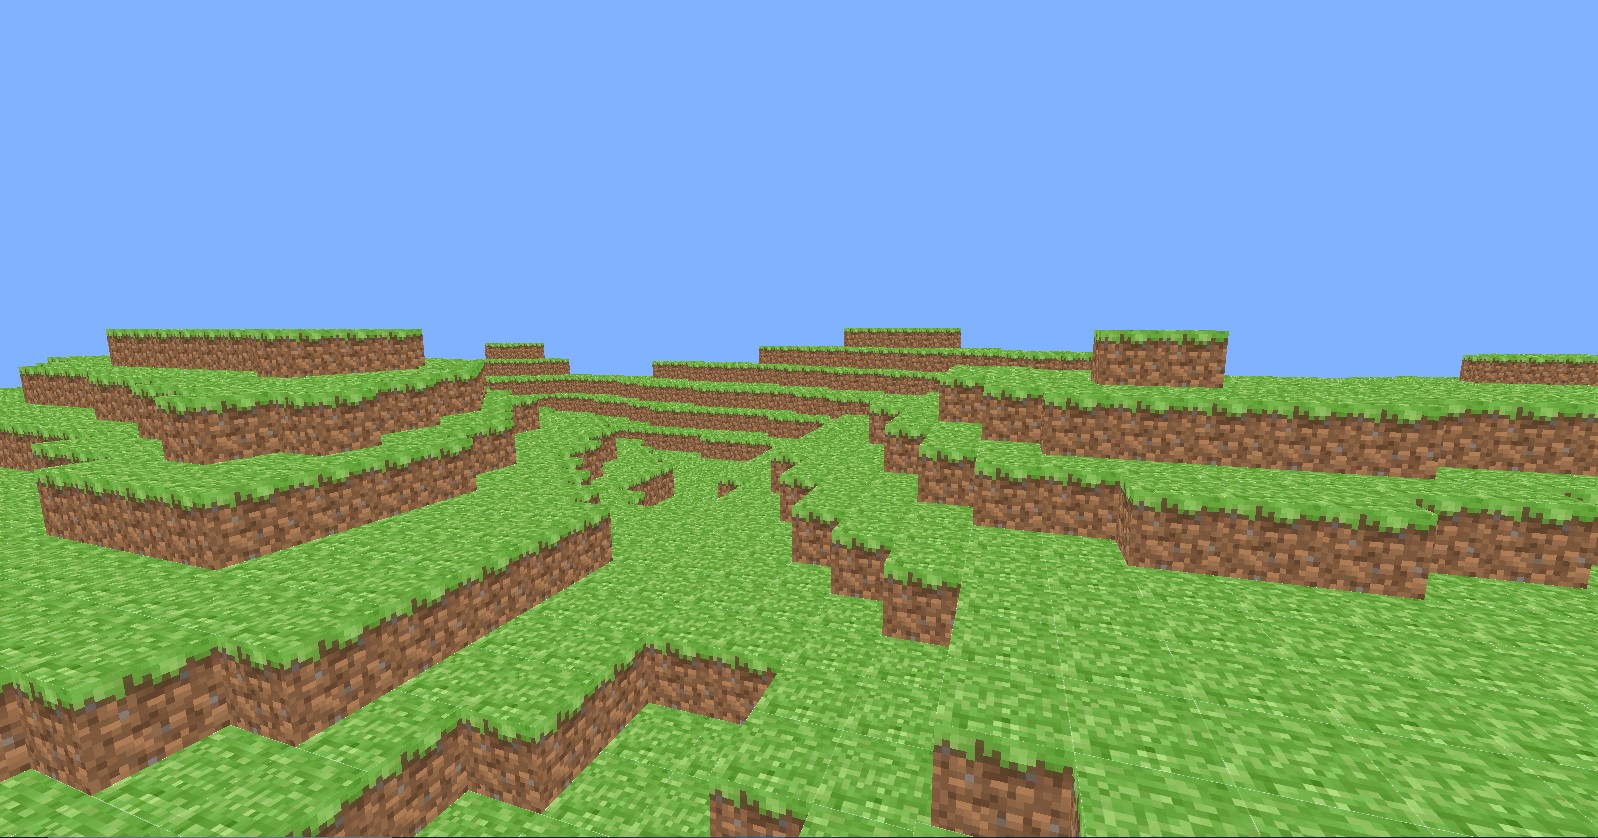
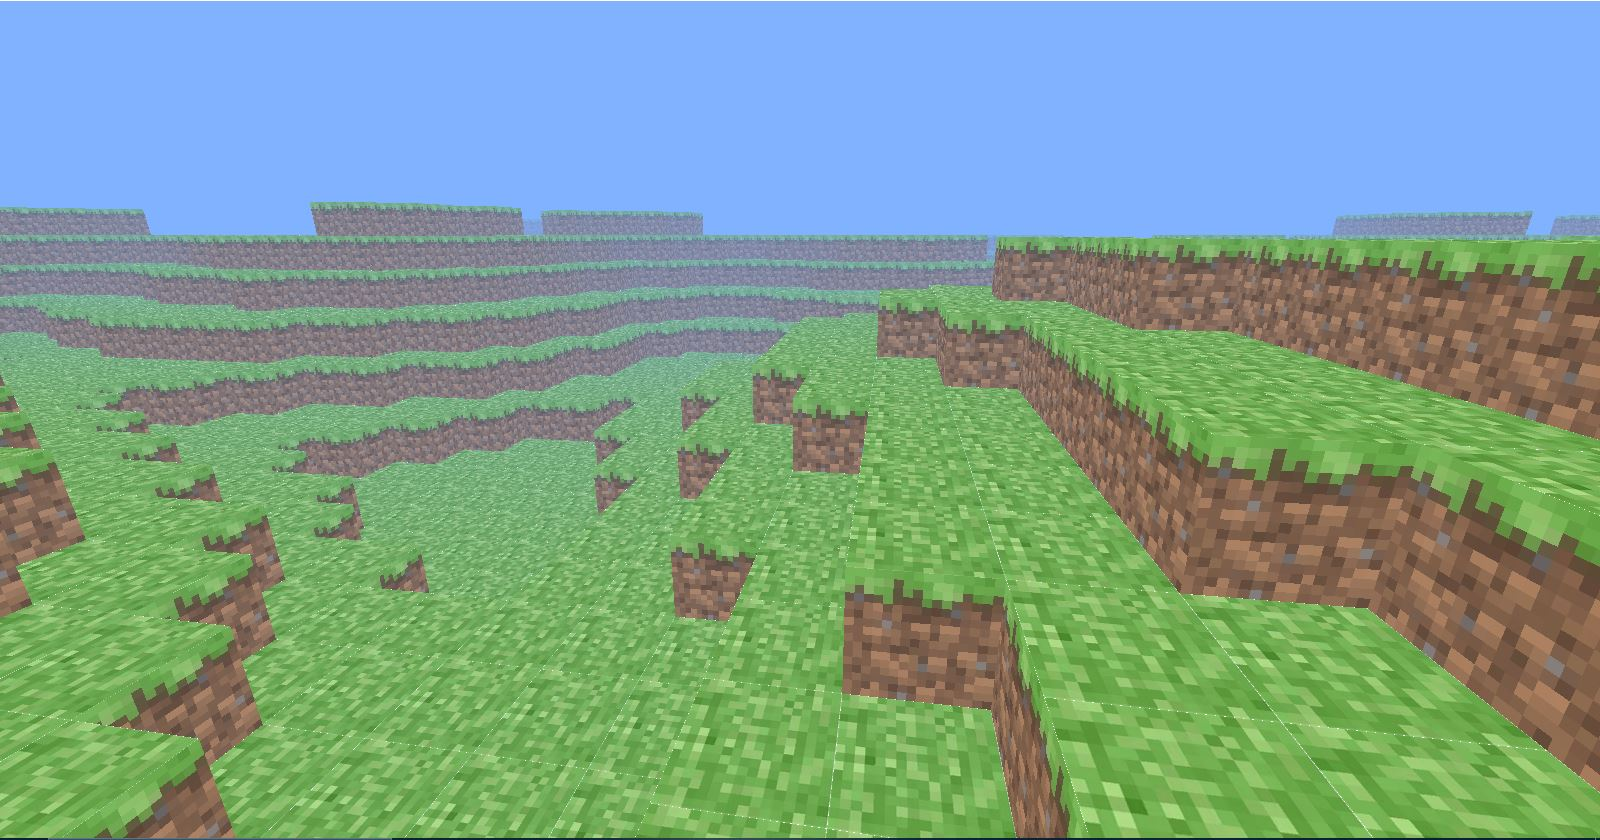
Task Scheduler!

diff --git a/Classes/world.py b/Classes/world.py
@@ -1,27 +1,52 @@
 import threading
+import time
+import logging
 
-class PrepareBatch(threading.Thread):
-    def __init__(self, world, xztuple):
-        threading.Thread.__init__(self)
-        self.setDaemon(True)
-        self.world = world
-        self.xztuple = xztuple
-        self.start()
+from pyglet.window.key import E, S
 
-    def start(self):
+logging.basicConfig(level=logging.DEBUG)
+
+
+def log(source, message, ctime=None):
+    # Get the time in a nice format
+    now = time.strftime("%H:%M:%S")
+    if ctime is not None:
+        now = ctime
+    logging.debug(f"({now}) [{source}]: {message}")
+
+# This is a frame based task scheduler
+# It Flags frames for tasks in its own array.
+# It executes the task when the frame comes.
+# It does tasks in the order they are flagged.
+
+class TaskScheduler:
+    def __init__(self):
+        self.tasks = []
+        self.task_lock = threading.Lock()
+        self._frame = 0
+
+    def add_task(self, task):
+        # Calculate the appropriate frame to run the task
+        APPROPRIATE_FRAME = self._frame + 50
+        for i in self.tasks:
+            if i[1] == APPROPRIATE_FRAME:
+                APPROPRIATE_FRAME += 50
+
+        with self.task_lock:
+            self.tasks.append([task, APPROPRIATE_FRAME])
+
+    def run(self):
         try:
-            self.c = self.world.Chunk(self.xztuple[0], self.xztuple[1],self.world)
-            self.c.generate()
-            self.world.temp.append(self.c)
-            exit()
-        except Exception as e:
-            print("Failed to generate chunk", self.xztuple, f"\n{e}")
-            exit()
+            for task in self.tasks:
+                if task[1] == self._frame:
+                    task[0]()
+                    del self.tasks[0]
+        finally:
+            self._frame += 1
 
 class World:
     def __init__(self, Chunk, Player):
-        self.generating = False
-        self.chunks = []
+        self.generated = False
         self.Chunk = Chunk
         self.chunk_distance = 3
         self.player = Player
@@ -29,30 +54,47 @@ class World:
         self.x = 0
         self.z = 0
 
+        self.chunks = self.generate_2d_array(self.chunk_distance*2+1)
+        self._scheduler = TaskScheduler()
         self.generate()
-        self.temp = []
+
+    def generate_2d_array(self, size):
+        return [[None] * size for _ in range(size)]
 
     def generate(self):
-        self.generating = False
-        self.chunks = []
+        self.generated = False
         for i in range(-self.chunk_distance, self.chunk_distance):
-            self.temp = []
             for j in range(-self.chunk_distance, self.chunk_distance):
-                try:
-                    PrepareBatch(self, (self.x+i, self.z+j))
-                except:
-                    pass
-            self.chunks.append(self.temp)
+                self.make_chunk((self.x+i, self.z+j), (i+self.chunk_distance, j+self.chunk_distance))
+        self.generated = True
 
     def draw(self):
         for i in self.chunks:
             for chunk in i:
-                chunk.draw()
+                if chunk is not None:
+                    chunk.draw()
+                self._scheduler.run()
+
+    def make_chunk(self, xz, index):
+        self.chunks[index[0]].append(self.Chunk(xz[0], xz[1], self))
+        self._scheduler.add_task(self.chunks[index[0]][len(self.chunks[index[0]])-1].generate)
 
     def update(self, dt):
-        x = int(self.player.pos[0]/16)
-        z = int(self.player.pos[2]/16)
-        if x != self.x or z != self.z:
-            self.x = x
-            self.z = z
+        x = self.player.pos[0]
+        z = self.player.pos[2]
+
+        # Nothin' to do with this
+        dt
+
+        if x > self.x*16 + self.chunk_distance-1:
+            self.x += 1
+            self.generate()
+        elif x < self.x*16 - self.chunk_distance-1:
+            self.x -= 1
+            self.generate()
+        elif z > self.z*16 + self.chunk_distance-1:
+            self.z += 1
+            self.generate()
+        elif z < self.z*16 - self.chunk_distance-1:
+            self.z -= 1
             self.generate()

diff --git a/Classes/chunk.py b/Classes/chunk.py
@@ -5,18 +5,31 @@ import random
 from opensimplex import OpenSimplex
 import threading
 import time
+import logging
+
+logging.basicConfig(level=logging.DEBUG)
+
+
+def log(source, message):
+    now = time.strftime("%H:%M:%S")
+    logging.debug(f"({now}) [{source}]: {message}")
+
 
 simplex = OpenSimplex(seed=random.randint(0, 100000))
 
+
 def get_tex(file):
-        tex = pyglet.image.load(file).texture
-        glTexParameterf(GL_TEXTURE_2D, GL_TEXTURE_MIN_FILTER, GL_NEAREST)
-        glTexParameterf(GL_TEXTURE_2D, GL_TEXTURE_MAG_FILTER, GL_NEAREST)
-        return pyglet.graphics.TextureGroup(tex)
+    log("Texture Loader", "Loading texture: " + file)
+    tex = pyglet.image.load(file).texture
+    glTexParameterf(GL_TEXTURE_2D, GL_TEXTURE_MIN_FILTER, GL_NEAREST)
+    glTexParameterf(GL_TEXTURE_2D, GL_TEXTURE_MAG_FILTER, GL_NEAREST)
+    return pyglet.graphics.TextureGroup(tex)
+
 
 top = get_tex('assets/grass_top.png')
 side = get_tex('assets/grass_side.png')
 bottom = get_tex('assets/dirt.png')
+
 
 class PrepareBatch(threading.Thread):
     def __init__(self, chunk, XYZ):
@@ -36,19 +49,19 @@ class PrepareBatch(threading.Thread):
         tex_coords = ('t2f', (0, 0, 1, 0, 1, 1, 0, 1))
 
         self.chunk.batch.add(4, GL_QUADS, side,   ('v3f', (X, y,
-                       z,  x, y, z,  x, Y, z,  X, Y, z)), tex_coords)  # back
+                                                           z,  x, y, z,  x, Y, z,  X, Y, z)), tex_coords)  # back
         self.chunk.batch.add(4, GL_QUADS, side,   ('v3f', (x, y,
-                       Z,  X, y, Z,  X, Y, Z,  x, Y, Z)), tex_coords)  # front
+                                                           Z,  X, y, Z,  X, Y, Z,  x, Y, Z)), tex_coords)  # front
 
         self.chunk.batch.add(4, GL_QUADS, side,   ('v3f', (x, y,
-                       z,  x, y, Z,  x, Y, Z,  x, Y, z)), tex_coords)  # left
+                                                           z,  x, y, Z,  x, Y, Z,  x, Y, z)), tex_coords)  # left
         self.chunk.batch.add(4, GL_QUADS, side,   ('v3f', (X, y,
-                       Z,  X, y, z,  X, Y, z,  X, Y, Z)), tex_coords)  # right
+                                                           Z,  X, y, z,  X, Y, z,  X, Y, Z)), tex_coords)  # right
 
         self.chunk.batch.add(4, GL_QUADS, bottom, ('v3f', (x, y,
-                       z,  X, y, z,  X, y, Z,  x, y, Z)), tex_coords)  # bottom
+                                                           z,  X, y, z,  X, y, Z,  x, y, Z)), tex_coords)  # bottom
         self.chunk.batch.add(4, GL_QUADS, top,    ('v3f', (x, Y,
-                       Z,  X, Y, Z,  X, Y, z,  x, Y, z)), tex_coords)  # top
+                                                           Z,  X, Y, Z,  X, Y, z,  x, Y, z)), tex_coords)  # top
 
 
 class Chunk:
@@ -57,8 +70,9 @@ class Chunk:
         self.X = X
         self.Z = Z
         self.generated = False
-    
+
     def generate(self):
+        log("Chunk Generator", "Generating chunk at: " + str(self.X) + ", " + str(self.Z))
         self.batch = pyglet.graphics.Batch()
         self.CHUNK_DIST = 16
 
@@ -70,10 +84,10 @@ class Chunk:
 
         for x in range(int(self.X), int(self.X+self.CHUNK_DIST)):
             for y in range(int(self.Z), int(self.Z+self.CHUNK_DIST)):
-                PrepareBatch(self,(x-self.X, int(
+                PrepareBatch(self, (x-self.X, int(
                     simplex.noise2d(x/10, y/10)*5), y-self.Z))
         self.generated = True
-        
+
     def draw(self):
         if self.generated:
             glPushMatrix()

diff --git a/Classes/window.py b/Classes/window.py
@@ -1,11 +1,20 @@
 import pyglet
 from pyglet.gl import *
 from pyglet.window import key
-import threading
+import time
+import logging
+
+logging.basicConfig(level=logging.DEBUG)
+
+
+def log(source, message):
+    now = time.strftime("%H:%M:%S")
+    logging.debug(f"({now}) [{source}]: {message}")
 
 class Window(pyglet.window.Window):
     def __init__(self, Chunk, World, Player, *args, **kwargs):
         super().__init__(*args, **kwargs)
+        log("Window", "Initializing window")
         self.set_minimum_size(800, 500)
         self.keys = key.KeyStateHandler()
         self.push_handlers(self.keys)
